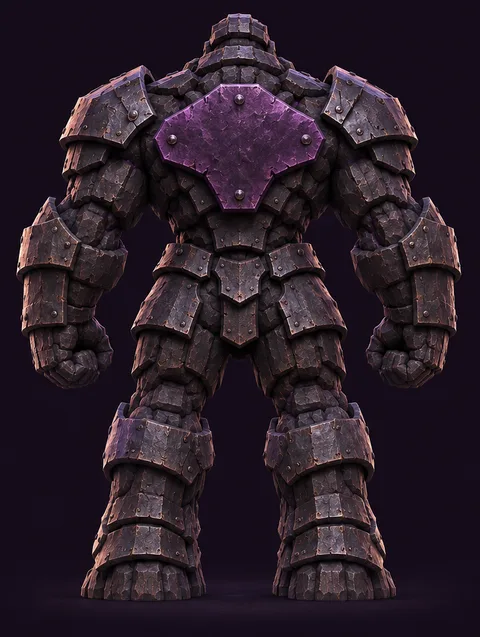
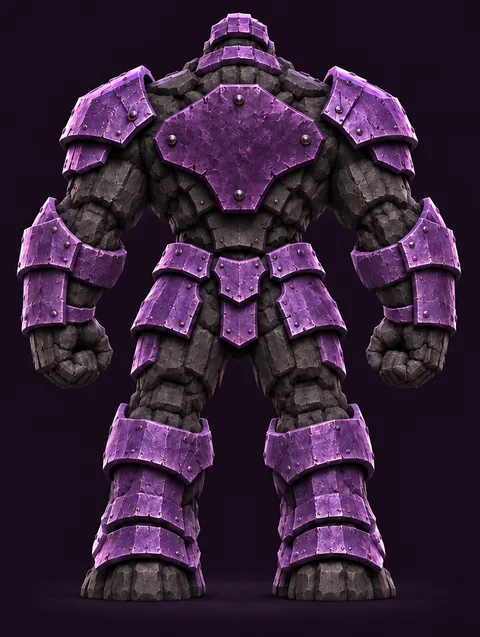
Show the Forge Golem losing its violet armor in stages

Changed region(s): [[0.0312, 0.0, 0.9688, 0.9246], [0.5312, 0.6264, 0.8438, 0.9246], [0.2188, 0.2684, 0.2812, 0.3281]]

diff --git a/style.css b/style.css
@@ -655,12 +655,11 @@ body:has(.rest-dock:not([hidden])) #record,body:has(.rest-dock:not([hidden])) #t
   background:#180f1f;
 }
 .golem-scene img{display:block;width:100%;height:auto}
-.golem-scene svg{position:absolute;inset:0;width:100%;height:100%;pointer-events:none}
-.golem-fracture{fill:none;stroke-linecap:round;stroke-linejoin:round}
-.damage-1 .golem-fracture{stroke:#e6adf5;stroke-width:1.4;opacity:.78;filter:drop-shadow(0 0 1px #2b152f)}
-.damage-2 .golem-fracture{stroke:#efc3ff;stroke-width:2;filter:drop-shadow(0 0 3px #ae37f5)}
-.damage-3 .golem-fracture{stroke:#ffe7b7;stroke-width:3;filter:drop-shadow(0 0 3px #ff8c4a) drop-shadow(0 0 6px #af48ff)}
-.golem-fracture.branch{stroke-width:1.4}
+.golem-scene .golem-scene-legs{
+  position:absolute;
+  inset:0;
+  clip-path:polygon(0 64%,24% 64%,25% 51%,30% 40%,38% 38%,47% 39%,54% 38%,63% 39%,69% 41%,75% 51%,76% 64%,100% 64%,100% 100%,0 100%);
+}
 .golem-card .armor-zone{color:inherit;text-align:start;cursor:pointer}
 .golem-card .armor-zone:focus-visible{outline:2px solid #e6b3ff;outline-offset:2px}
 .golem-card{scroll-margin-top:70px}
